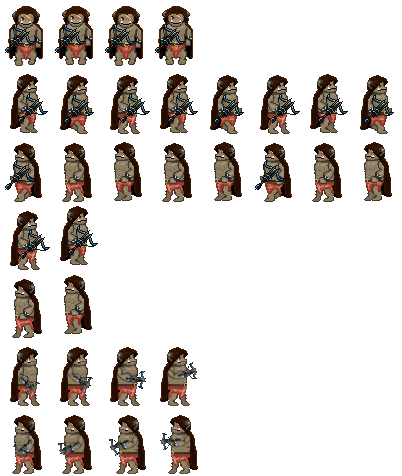
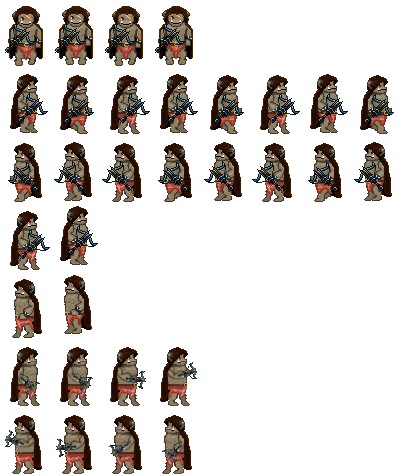
Updated tracking ranges and attack ranges, and added buttons to welcome screen for starting game and highscore.

diff --git a/main.py b/main.py
@@ -5,17 +5,26 @@ from player import Player
 from enemy import Enemy
 from map import Map
 
+
 # dimensions of canvas
 canvas_width = 1920
 canvas_height = 1080
 
-# Create a frame
-frame = simplegui.create_frame("Game", canvas_width, canvas_height)
-frame.set_canvas_background("White")
-
 # Create a WelcomeScreen instance with canvas dimensions
 welcome_screen = WelcomeScreen(canvas_width, canvas_height,)
 
+# Other game entities (player, enemy, etc.)
+player = Player(welcome_screen=welcome_screen, walk=8, jump=2, attack=4, dmg=2, img_url="images/player.png", img_dest_dim=(60, 60), position=Vector(500, 200), row=12, column=8)
+
+enemy1 = Enemy(range = False, canvas_width=canvas_width, welcome_screen=welcome_screen, player=player, walk=3, jump=2, attack=3,dmg=2, speed=0.8, img_url="images/orc_spearman.png", img_dest_dim=(60, 60), row=7, column=4)
+enemy2 = Enemy(range = True, canvas_width=canvas_width, welcome_screen=welcome_screen, player=player, walk=3, jump=2, attack=3,dmg=2, speed=0.8, img_url="images/orc_crossbow.png", img_dest_dim=(60, 60), row=7, column=8)
+enemy3 = Enemy(range = True,canvas_width=canvas_width, welcome_screen=welcome_screen, player=player, walk=3, jump=2, attack=3,dmg=2, speed=0.8, img_url="images/orc_hunter_mask_spritesheet.png", img_dest_dim=(60, 60), row=7, column=8)
+map = Map(welcome_screen=welcome_screen)
+all_entities = [player, enemy1, enemy2, enemy3, map]
+
+# Create a frame
+frame = simplegui.create_frame("Game", canvas_width, canvas_height)
+frame.set_canvas_background("White")
 
 # Keyboard event handlers
 def key_down(key):
@@ -47,22 +56,14 @@ def draw(canvas):
 
 # Mouse click handler for the frame
 def mouse_click(pos):
-    # If welcome screen is showing and clicked, start the game
+    # If welcome screen is showing and the start button is clicked, start the game
     if welcome_screen.show_welcome_screen:
-        welcome_screen.start_game()
+        if welcome_screen.play_button.contains_point(pos):
+            welcome_screen.start_game()
+
 
 # Set mouse click handler
 frame.set_mouseclick_handler(mouse_click)
-
-# Other game entities (player, enemy, etc.)
-player = Player(welcome_screen=welcome_screen, walk=8, jump=2, attack=4, dmg=2, img_url="images/player.png", img_dest_dim=(60, 60), position=Vector(500, 200), row=12, column=8)
-
-enemy1 = Enemy(canvas_width=canvas_width, welcome_screen=welcome_screen, player=player, walk=3, jump=2, attack=3,dmg=2, speed=0.8, img_url="images/orc_spearman.png", img_dest_dim=(60, 60), row=7, column=4)
-enemy2 = Enemy(canvas_width=canvas_width, welcome_screen=welcome_screen, player=player, walk=3, jump=2, attack=3,dmg=2, speed=0.8, img_url="images/orc_crossbow.png", img_dest_dim=(60, 60), row=7, column=8)
-enemy3 = Enemy(canvas_width=canvas_width, welcome_screen=welcome_screen, player=player, walk=3, jump=2, attack=3,dmg=2, speed=0.8, img_url="images/orc_hunter_mask_spritesheet.png", img_dest_dim=(60, 60), row=7, column=8)
-map = Map(welcome_screen=welcome_screen)
-
-all_entities = [player, enemy1, enemy2, enemy3, map]
 
 # Draw the frame
 frame.set_draw_handler(draw)

diff --git a/welcome_screen.py b/welcome_screen.py
@@ -1,11 +1,43 @@
 import SimpleGUICS2Pygame.simpleguics2pygame as simplegui
 
+class Button:
+    def __init__(self, label, pos, width, height, action):
+        self.label = label
+        self.pos = pos
+        self.width = width
+        self.height = height
+        self.action = action
+
+    def draw(self, canvas):
+        label_width = len(self.label) * 12
+        label_height = 24
+        canvas.draw_text(self.label, (self.pos[0] - label_width / 2, self.pos[1] + label_height / 4), 24, "White")
+        canvas.draw_polygon([(self.pos[0] - self.width / 2, self.pos[1] - self.height / 2),
+                             (self.pos[0] + self.width / 2, self.pos[1] - self.height / 2),
+                             (self.pos[0] + self.width / 2, self.pos[1] + self.height / 2),
+                             (self.pos[0] - self.width / 2, self.pos[1] + self.height / 2)], 1, "White")
+
+    def contains_point(self, pos):
+        x_in_range = pos[0] >= self.pos[0] - self.width / 2 and pos[0] <= self.pos[0] + self.width / 2
+        y_in_range = pos[1] >= self.pos[1] - self.height / 2 and pos[1] <= self.pos[1] + self.height / 2
+        return x_in_range and y_in_range
+
 class WelcomeScreen:
     def __init__(self, canvas_width, canvas_height):
         self.canvas_width = canvas_width
         self.canvas_height = canvas_height
         self.show_welcome_screen = True
-        self.click_to_start = True
+        
+        # Define button dimensions and positions
+        button_width = 200
+        button_height = 50
+        button_margin = 20
+        button_x = canvas_width / 2
+        play_button_y = canvas_height * 3 / 4 - button_height - button_margin
+        highscores_button_y = canvas_height * 3 / 4 + button_margin
+
+        self.play_button = Button("Play/Start", (button_x, play_button_y), button_width, button_height, self.start_game)
+        self.highscores_button = Button("Highscores", (button_x, highscores_button_y), button_width, button_height, self.show_highscores)
 
     def draw(self, canvas):
         if self.show_welcome_screen:
@@ -39,17 +71,21 @@ class WelcomeScreen:
             for i, sentence in enumerate(description_sentences):
                 canvas.draw_text(sentence, [(self.canvas_width - len(sentence) * 6) / 2, 220 + i * 30], 18, welcome_color, "sans-serif")
 
-            # Draw click to start text
-            if self.click_to_start:
-                click_to_start_text = "Click to Start"
-                canvas.draw_text(click_to_start_text, [(self.canvas_width - len(click_to_start_text) * 9) / 2, 220 + len(description_sentences) * 30], 24, welcome_color, "sans-serif")
+            # Draw buttons
+            self.play_button.draw(canvas)
+            self.highscores_button.draw(canvas)
 
     def start_game(self):
         self.show_welcome_screen = False
 
+    def show_highscores(self):
+        # Code to display highscores
+        pass
+
     def reset_game(self):
         self.show_welcome_screen = True
         # Reset lives and score here
+
 
 
 

diff --git a/enemy.py b/enemy.py
@@ -6,9 +6,10 @@ import math
 import random
 
 class Enemy(State):
-    def __init__(self, canvas_width, welcome_screen, **kwargs):
+    def __init__(self, range, canvas_width, welcome_screen, **kwargs):
         super().__init__(welcome_screen,**kwargs)
 
+        self.range = range
         self.welcome_screen = welcome_screen
         self.position = kwargs.get('position', None)
         if self.position is None:
@@ -20,38 +21,13 @@ class Enemy(State):
         self.move_distance = 100
         self.current_distance = 0
 
-    def movement(self):
-        if self.JUMP:
-            self.velocity += Vector(0, -5) * self.speed
-        elif self.GRAVITY:
-            self.velocity.y += self.weight
-
-        # Check if the enemy is at the boundary
-        if self.position.x >= self.canvas_width:
-            self.RIGHT = False
-            self.LEFT = True
-        elif self.position.x <= 0:  
-            self.RIGHT = True
-            self.LEFT = False
-
-        # Update velocity and idle frame based on direction
-        if self.LEFT:
-            self.velocity += Vector(-1, 0) * self.speed
-            self.idle_frame = [2, 0]
-        elif self.RIGHT:
-            self.velocity += Vector(1, 0) * self.speed
-            self.idle_frame = [0, 0]
-
-        # Update position
-        self.position += self.velocity
-
-
 
     def state_update(self):
 
         distance_to_player = math.sqrt((self.player.position.x - self.position.x) ** 2 + (self.player.position.y - self.position.y) ** 2)
 
         tracking_range = 200
+        attack_range = 100
 
         if distance_to_player < tracking_range:
                 self.track_player()
@@ -59,10 +35,25 @@ class Enemy(State):
         else:
              self.move_back_and_forth()
 
-        if abs(self.player.position.x - self.position.x)<25 and self.player.position.y > 800:
-            self.ATTACK = True
+        if self.range:
+            if distance_to_player < attack_range:
+                self.ATTACK = True
+
+                if self.player.position.x > self.position.x:
+                    self.RIGHT = True
+                    self.LEFT = False
+
+                else:
+                    self.LEFT = True
+                    self.RIGHT = False
+
+            else:
+                self.ATTACK = False
         else:
-            self.ATTACK = False
+            if abs(self.player.position.x - self.position.x)<25 and self.player.position.y > 800:
+                self.ATTACK = True
+            else:
+                self.ATTACK = False
 
     def track_player(self):
         if self.player.position.x > self.position.x:
@@ -72,7 +63,7 @@ class Enemy(State):
             self.LEFT = True
             self.RIGHT = False
 
-        self.speed = 0.3
+        self.speed = 0.5
 
     def move_back_and_forth(self):
         if self.move_right:
